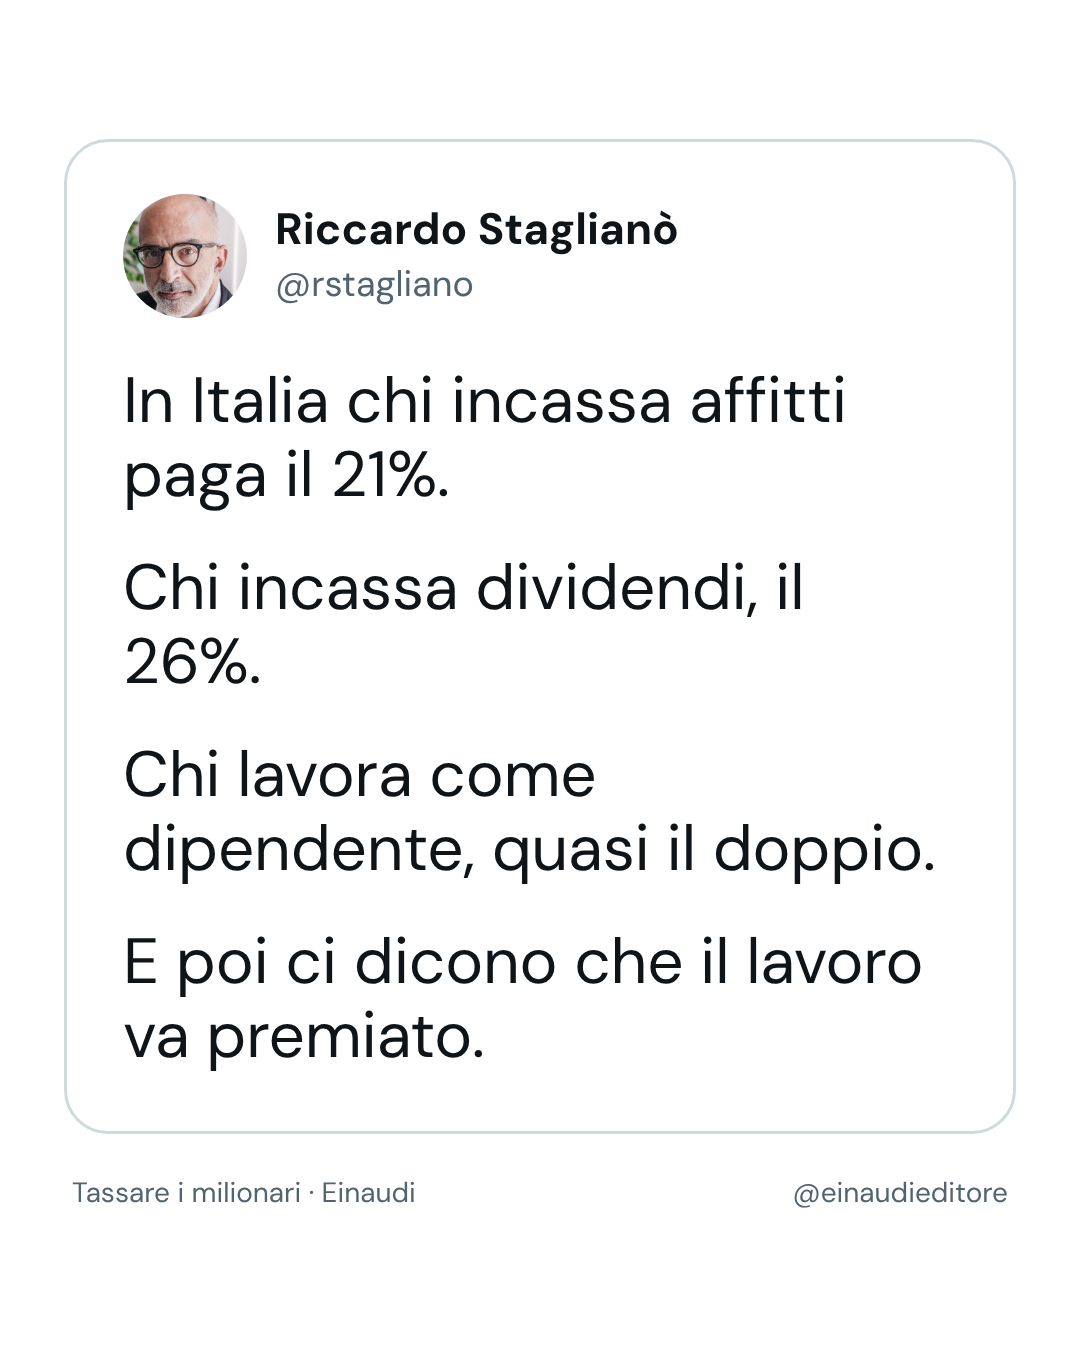
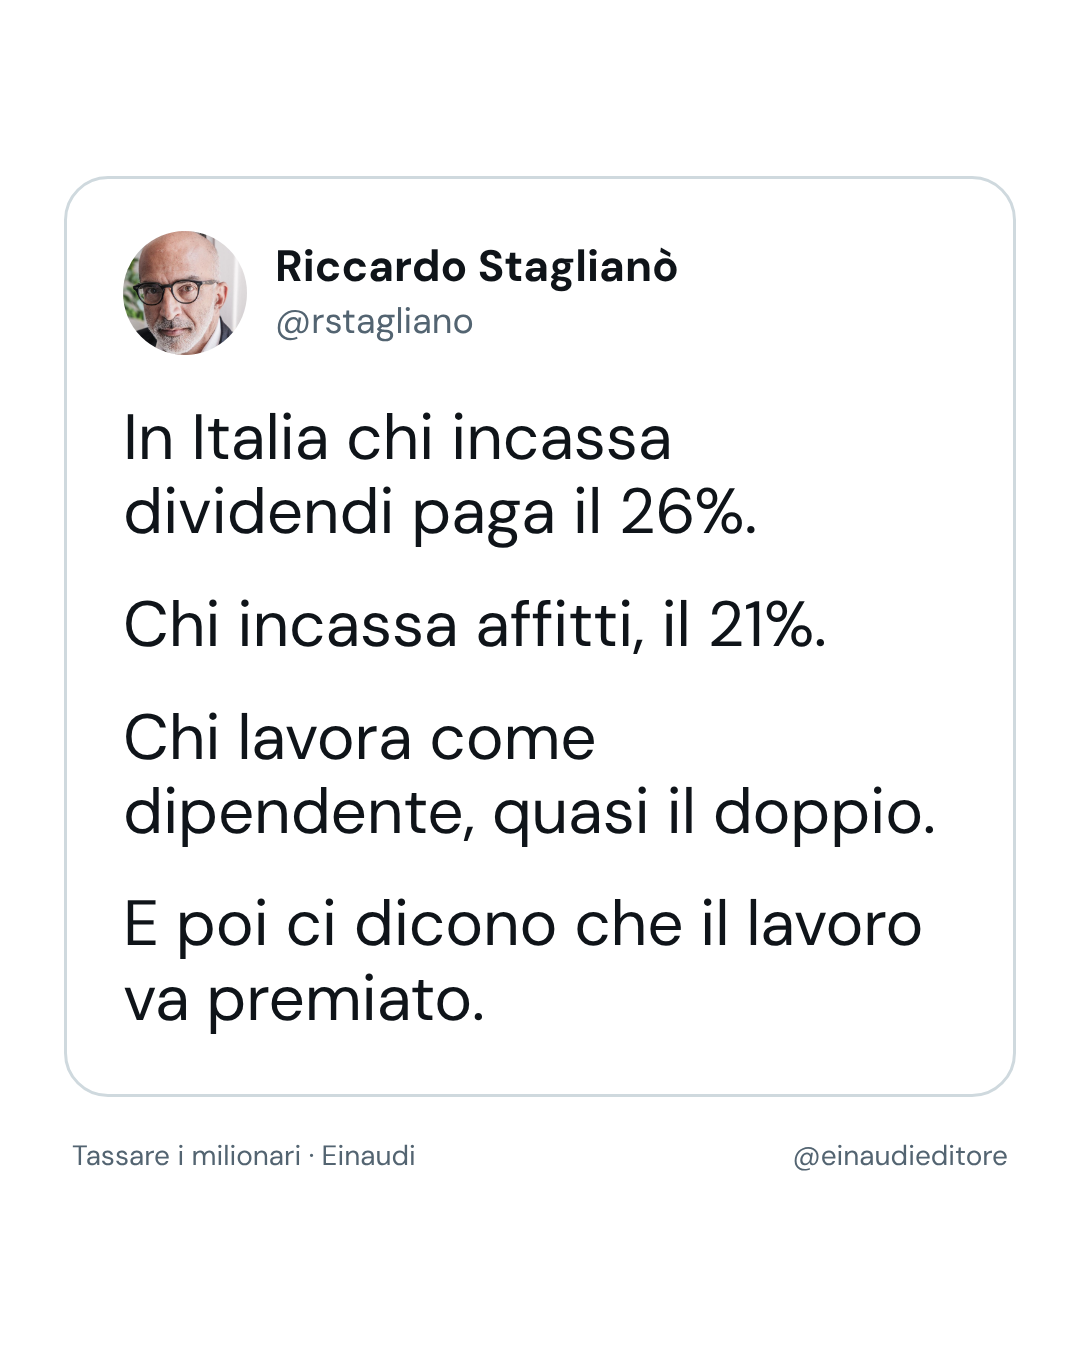
Lapidario rendite: prima dividendi, poi affitti, poi dipendente
Claude-Session: https://claude.ai/code/session_01Kd5zTfsZWUHU33zvDypZz2

diff --git a/novembre/src/html/n06_lap_rendite.html b/novembre/src/html/n06_lap_rendite.html
@@ -15,7 +15,7 @@ body{font-family:'DM Sans',sans-serif;color:#0f1419;-webkit-font-smoothing:antia
 <body style="background:#fff"><div class="wrap"><div class="card" style="border-color:#cfd9de;background:#fff">
 <div class="head"><div class="av" style="background-image:url('file:///home/claude/tassareimilionari/novembre/src/avatar.jpg')"></div>
 <div><div class="name">Riccardo Staglianò</div><div class="handle">@rstagliano</div></div></div>
-<div class="txt" data-fit="720" style="font-size:72px"><p>In Italia chi incassa affitti paga il 21%.</p><p>Chi incassa dividendi, il 26%.</p><p>Chi lavora come dipendente, quasi il doppio.</p><p>E poi ci dicono che il lavoro va premiato.</p></div>
+<div class="txt" data-fit="720" style="font-size:72px"><p>In Italia chi incassa dividendi paga il 26%.</p><p>Chi incassa affitti, il 21%.</p><p>Chi lavora come dipendente, quasi il doppio.</p><p>E poi ci dicono che il lavoro va premiato.</p></div>
 </div>
 <div class="meta"><span>Tassare i milionari · Einaudi</span><span>@einaudieditore</span></div>
 </div><script>

diff --git a/novembre/src/contenuti.py b/novembre/src/contenuti.py
@@ -77,8 +77,8 @@ GRAFICHE = [
 
     # ───────── MER 11 NOV · LAPIDARIO ─────────
     {"nome": "n06_lap_rendite", "tipo": "sanders", "size": 72,
-     "testo": ["In Italia chi incassa affitti paga il 21%.",
-               "Chi incassa dividendi, il 26%.",
+     "testo": ["In Italia chi incassa dividendi paga il 26%.",
+               "Chi incassa affitti, il 21%.",
                "Chi lavora come dipendente, quasi il doppio.",
                "E poi ci dicono che il lavoro va premiato."]},
 
